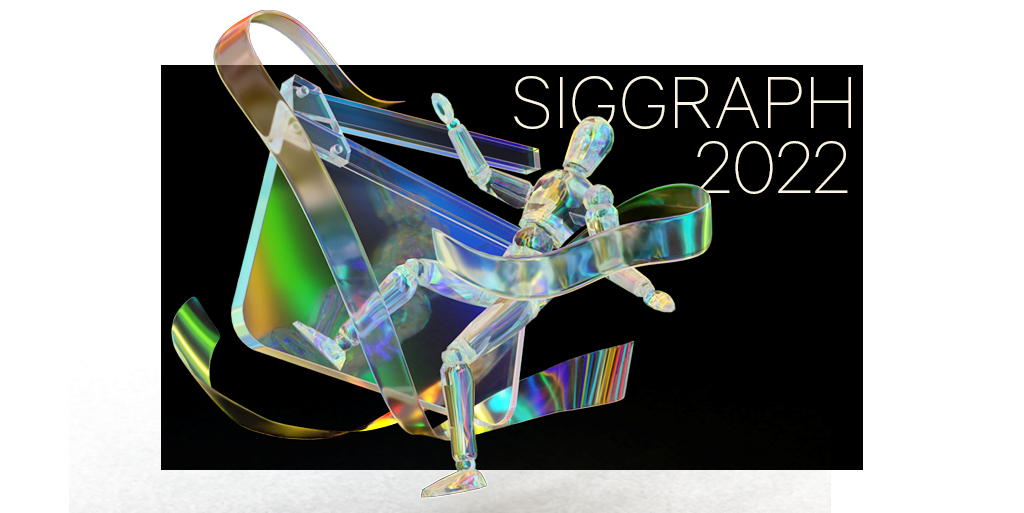
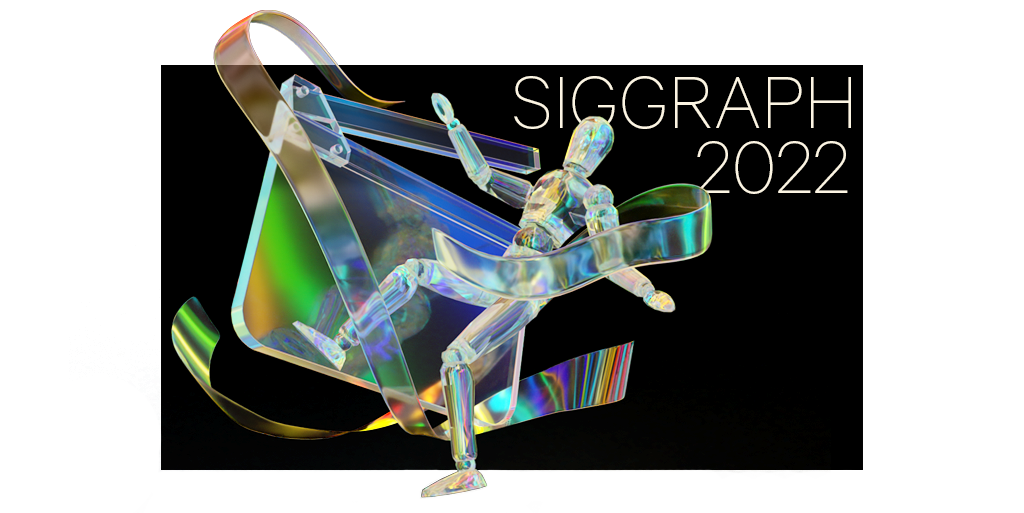
add siggraph cover

Changed region(s): [[0.1875, 0.9045, 0.7188, 1.0]]

diff --git a/illustration.html b/illustration.html
@@ -34,6 +34,9 @@
                   <div class="item flex-item">
                      <a href="type.html" class="p-type"></a>
                   </div>
+                  <div class="item flex-item">
+                     <a href="siggraph.html" class="p-siggraph"></a>
+                  </div>
                   <!--<div class="item flex-item">
                      <a href="https://medium.com/@lishuofei/collection-organic-color-ca5d7de155e7" target="_blank" class="p-fruit"></a>
                   </div>-->

diff --git a/index.html b/index.html
@@ -87,7 +87,7 @@
         </section>
         <section class="full-screen" id="section-6">
           <div class="section5div">
-               Thanks  -  The website was made by Sophie Li  -   Updated Nov.2019
+               Thanks  -  The website was made by Sophie Li  -   Updated Jan.2020
           </div>
         </section>
       </main>

diff --git a/css/portfolio.css b/css/portfolio.css
@@ -372,6 +372,9 @@ a:active {
 .p-ecouture{
    background: url(../img/e_couture.png) no-repeat center center;
 }
+.p-siggraph{
+   background: url(../img/siggraph_cover.png) no-repeat center center;
+}
 .content01{
    width: 410px;
    margin: 40px;
